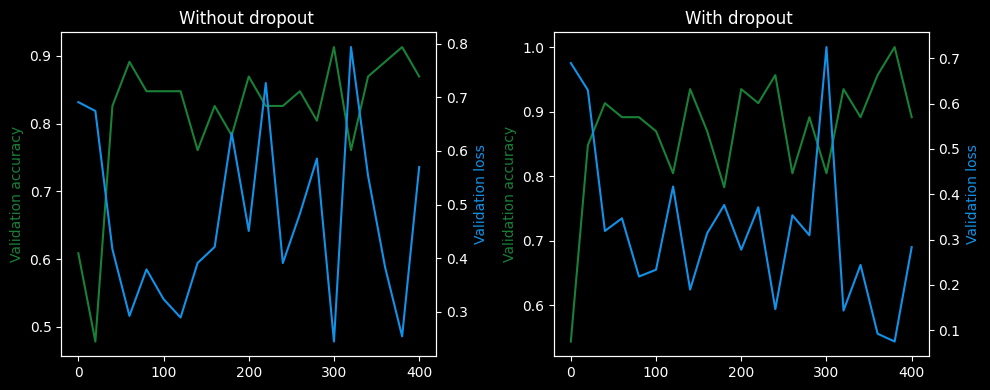
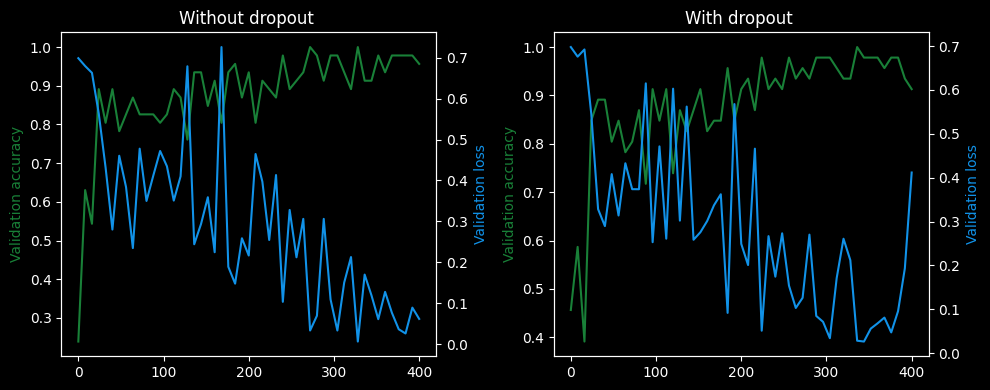
Edited my ssection (Hubert P).

diff --git a/index.html b/index.html
@@ -817,7 +817,7 @@
                 </code></pre>
             </div>
             <h3>Number of epochs</h3>
-            <p>Powyżej 100 epoc nie widać poprawy, więc epochs zastawiamy 100.</p>
+            <p>Zwiększenie liczby epoc poprawia wynik, dlatego ustawiamy epocs = 300.</p>
             <div class="code-snippet">
                 <pre class="line-numbers"><code class="language-python">
                     display(Javascript('''google.colab.output.setIframeHeight(0, true, {maxHeight: 100})'''))
